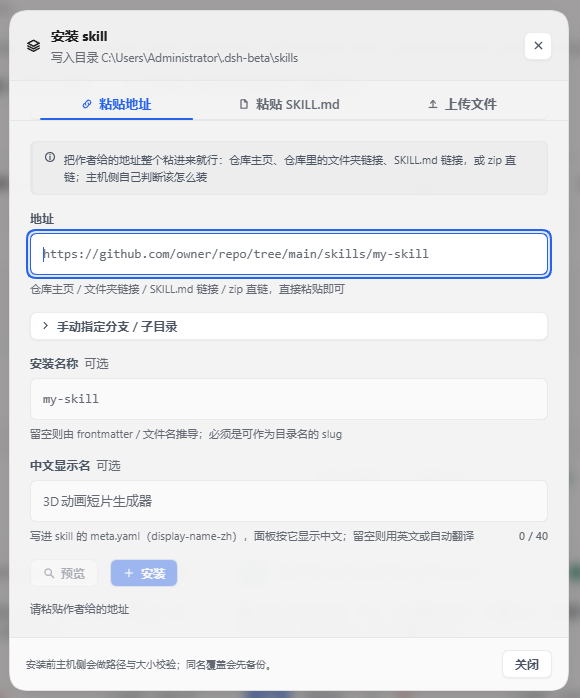
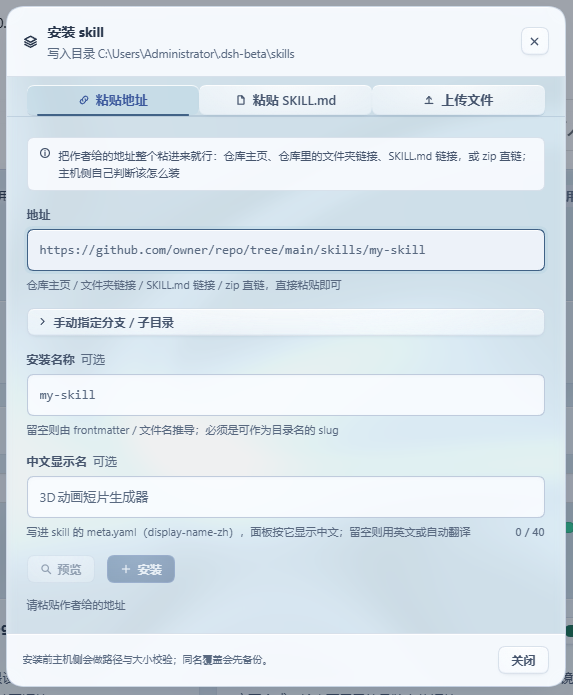
replace the remaining two screenshots and document the background panel
I said all four screenshots were new and only two were. panel.png and the new background-settings.png went in with the
4.4.1 import; strip.png and install-sheet.png were still the 4.2.0 images, on a design that no longer exists.

  * strip.png is now CROPPED out of the new panel screenshot at 2x, because the strip has no standalone capture and a
    2x crop keeps the 11-12px labels legible at the size GitHub renders them. The band had to be tightened three times:
    the first attempt caught the panel header below it, so the report's own title appeared as a second band.
  * install-sheet.png is the new liquid version.

AND background-settings.png WAS SHIPPING UNREFERENCED — added by me, listed in package.json via the whole docs
directory, and mentioned by no document, so it was 375KB of tarball nobody would ever see. README now has a 背景自定义
section that embeds it and states what the feature actually guarantees: four styles, six presets, every slider applied
rather than decorative, images resized locally to a 1920px long edge and never uploaded, and settings that are per-client
and explicitly do NOT sync across devices.

Documentation and images only: rebuilding lib/client.js produces no diff, so the shipped bundle is unchanged.

diff --git a/README.md b/README.md
@@ -34,6 +34,18 @@ https://github.com/owner/repo/tree/main/skills/my-skill
 
 ![安装面板](docs/install-sheet.png)
 
+## 背景自定义（4.4）
+
+面板可以有背景。横栏和报告右上角的「背景自定义」打开一张设置面板，**左侧是实时预览**，改一下看一眼，不满意随时取消 —— **预览、取消、恢复默认是三件不同的事**，不会"改了就算数"。
+
+![背景自定义](docs/background-settings.png)
+
+- **四类样式**：液态、柔和渐变、纯色、本地图片；**六套低饱和预设**（柔柔银蓝、珍珠白、紫棠、暖砂灰、深色金属、青瓷）直接挑一个开始。
+- **每个滑块都真的作用于背景**：主色 / 辅助色 / 高光色，明暗、亮度、饱和度、对比、金属高光、柔化、遮罩、速度、形变、指针反馈 —— 而**不适用的选项会隐藏**，不是摆在那里让你调了没反应。
+- **图片在本机处理**：接受 JPG/PNG/WebP（上限 8 MB），**在本机缩到长边 1920 以内**，支持铺满裁切 / 完整显示 / 拉伸与位置。图片和设置**单独存在客户端数据库里，不上传、不改动 skill 数据、不碰宿主配置**。
+- **只影响当前客户端**：设置跨本插件的各个表面共享、刷新后保留，但**不宣称跨设备同步** —— 因为它确实不跨。
+- 静态模式下背景**不持续渲染**；隐藏、卸载和系统"减少动态"仍然照常生效。
+
 ## 装了之后能更新（4.0）
 
 **问题**：3.0 把地址用一次就丢了（git 克隆还会被删掉）。作者发了修复，你无从判断新旧，只能删了重装 —— 而删除是移动到备份。
